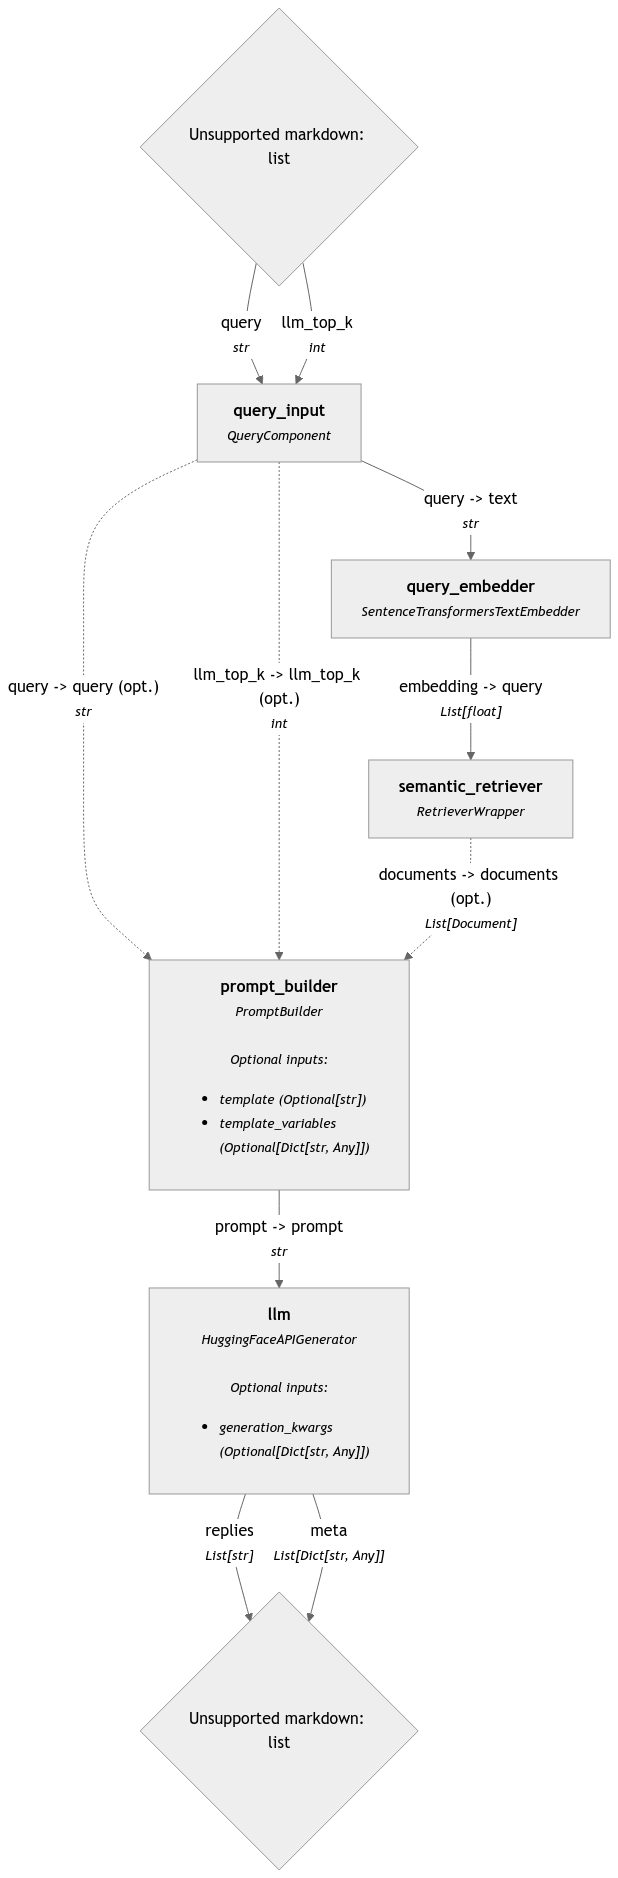
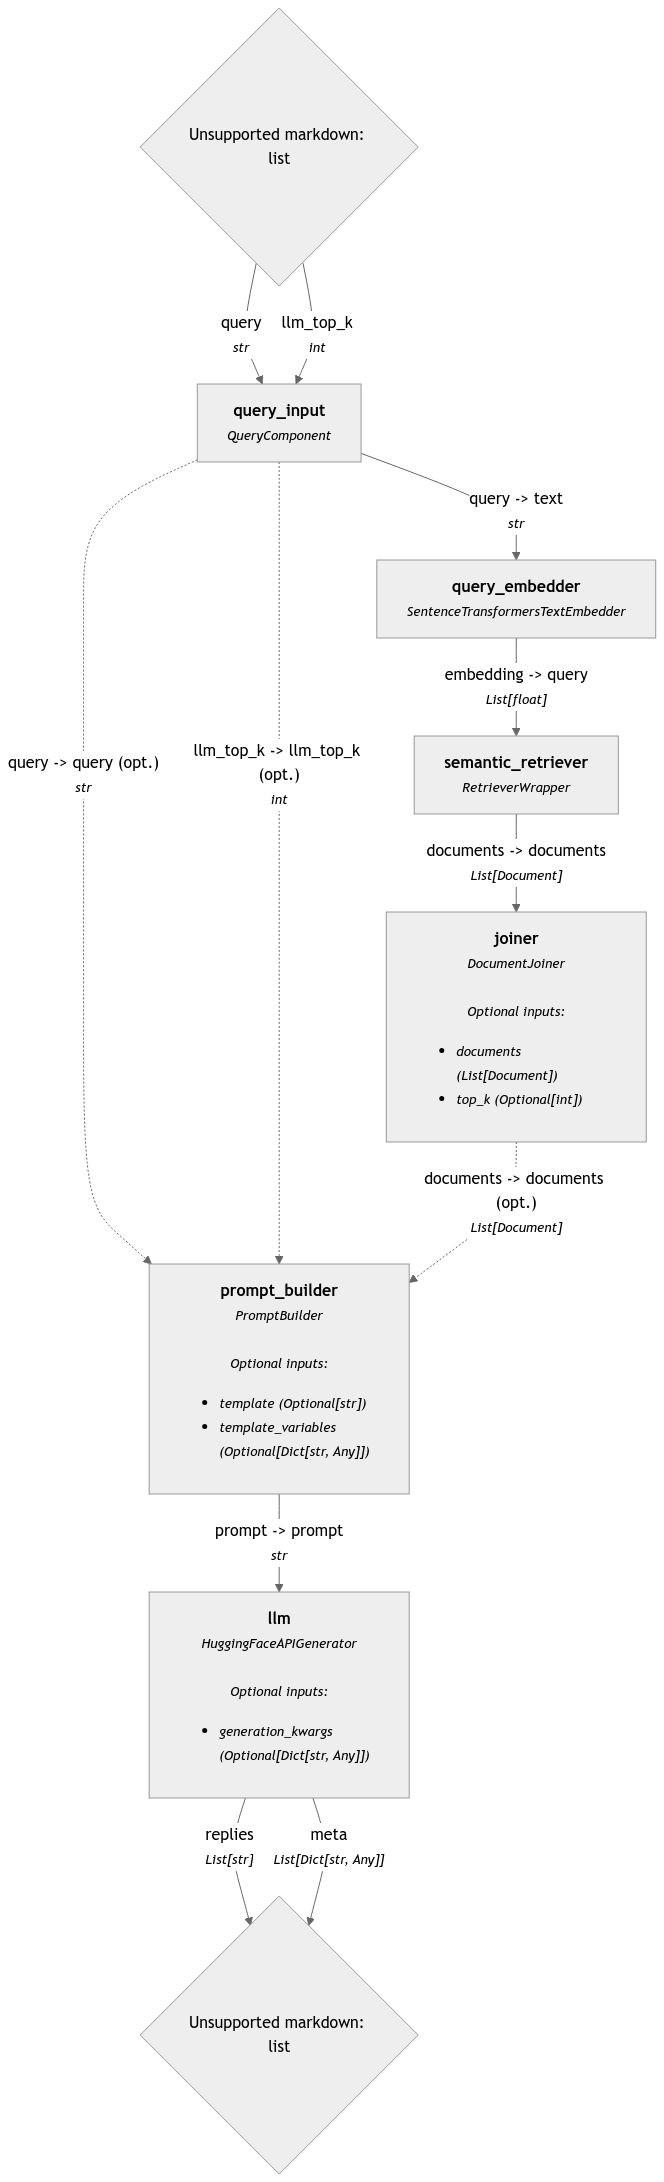
Added joiner and it broke the llm

diff --git a/rag_pipeline.py b/rag_pipeline.py
@@ -73,6 +73,11 @@ class RetrieverWrapper:
         elif isinstance(query, str):
             documents = self._retriever.run(query=query)['documents']
         if self._do_stream:
+            print()
+            if isinstance(self._retriever, PgvectorEmbeddingRetriever):
+                print("Semantic Retriever Results:")
+            elif isinstance(self._retriever, PgvectorKeywordRetriever):
+                print("Lexical Retriever Results:")
             print_documents(documents)
         # Return a dictionary with documents
         return {"documents": documents}
@@ -235,15 +240,14 @@ class RagPipeline:
             "give a comprehensive answer to the question. Pay more attention to the higher scoring "
             "documents.\n\n"
             "Context:\n"
-            "{% for i in range(llm_top_k) %}"
+            "{% for i in range([documents|count, llm_top_k] | min) %}"
                 "Rank {{ i + 1 }},  Score: {{ '%.2f' | format(documents[i].score) }}\n"
-                    "{% if documents[i] is defined %}"
-                        "{{ documents[i].content }}\n"
-                    "{% endif %}\n"
-                "{% endfor %};\n\n"
+                "{{ documents[i].content }}\n\n"
+            "{% endfor %}\n\n"
             "Question: {{query}}<end_of_turn>\n\n"
             "<start_of_turn>model\n"
         )
+
         self._print_verbose("Prompt Template:")
         self._print_verbose(self._prompt_template)
 
@@ -393,14 +397,14 @@ class RagPipeline:
             self._print_verbose("Retrieved Documents:")
             print_documents(merged_results["documents"])
 
-            # Print generated response
-            # noinspection SpellCheckingInspection
-            print("\nLLM's Response:")
-            if merged_results["replies"]:
-                answer: str = merged_results["replies"][0]
-                print(answer)
-            else:
-                print("No response was generated.")
+            # # Print generated response
+            # # noinspection SpellCheckingInspection
+            # print("\nLLM's Response:")
+            # if merged_results["replies"]:
+            #     answer: str = merged_results["replies"][0]
+            #     print(answer)
+            # else:
+            #     print("No response was generated.")
 
     def _create_rag_pipeline(self) -> None:
         rag_pipeline: Pipeline = Pipeline()
@@ -413,12 +417,19 @@ class RagPipeline:
         if self._search_mode == SearchMode.SEMANTIC or self._search_mode == SearchMode.HYBRID:
             rag_pipeline.add_component("query_embedder", self._sentence_embedder)
             rag_pipeline.connect("query_input.query", "query_embedder.text")
-        # Add the prompt builder component
+
+        # # Add the prompt builder component
         prompt_builder: PromptBuilder = PromptBuilder(template=self._prompt_template)
         rag_pipeline.add_component("prompt_builder", prompt_builder)
-        # Connect the query input to the prompt builder
+        # # Connect the query input to the prompt builder
         rag_pipeline.connect("query_input.query", "prompt_builder.query")
         rag_pipeline.connect("query_input.llm_top_k", "prompt_builder.llm_top_k")
+
+        # Add the joiner component
+        # Create a joiner to merge the results from both retrievers
+        joiner: DocumentJoiner = DocumentJoiner(join_mode="distribution_based_rank_fusion",
+                                                top_k=self._retriever_top_k*2)
+        rag_pipeline.add_component("joiner", joiner)
 
         # Add the retriever component(s) depending on search mode
         lex_retriever: Optional[RetrieverWrapper] = None
@@ -429,9 +440,9 @@ class RagPipeline:
                 PgvectorKeywordRetriever(document_store=self._document_store, top_k=self._retriever_top_k),
                 do_stream=self._can_stream())
             rag_pipeline.add_component("lex_retriever", lex_retriever)
-            # rag_pipeline.connect("lex_retriever", "joiner")
+            rag_pipeline.connect("lex_retriever", "joiner")
             rag_pipeline.connect("query_input.query", "lex_retriever")
-            rag_pipeline.connect("lex_retriever.documents", "prompt_builder.documents")
+            rag_pipeline.connect("lex_retriever.documents", "joiner.documents")
 
         if self._search_mode == SearchMode.SEMANTIC or self._search_mode == SearchMode.HYBRID:
             semantic_retriever = RetrieverWrapper(
@@ -439,22 +450,16 @@ class RagPipeline:
                 do_stream=self._can_stream())
             rag_pipeline.add_component("semantic_retriever", semantic_retriever)
             rag_pipeline.connect("query_embedder.embedding", "semantic_retriever.query")
-            # rag_pipeline.connect("semantic_retriever", "joiner")
-            rag_pipeline.connect("semantic_retriever.documents", "prompt_builder.documents")
+            rag_pipeline.connect("semantic_retriever.documents", "joiner.documents")
 
-        if self._search_mode == SearchMode.HYBRID:
-            pass
+        # Always connect the joiner to the prompt builder
+        rag_pipeline.connect("joiner.documents", "prompt_builder.documents")
 
         # Add the LLM component
         if isinstance(self._generator_model, gen.GeneratorModel):
             rag_pipeline.add_component("llm", self._generator_model.generator_component)
         else:
             rag_pipeline.add_component("llm", self._generator_model)
-
-        # Add the joiner component
-        # Create a joiner to merge the results from both retrievers
-        joiner: DocumentJoiner = DocumentJoiner(join_mode="merge", top_k=self._retriever_top_k)
-        # rag_pipeline.add_component("joiner", joiner)
 
         if not self._can_stream():
             # Add the final merger of documents and llm response only when streaming is disabled
@@ -465,8 +470,7 @@ class RagPipeline:
                 rag_pipeline.connect("semantic_retriever.documents", "merger.documents")
             rag_pipeline.connect("llm.replies", "merger.replies")
 
-        # Connect the components for both streaming and non-streaming scenarios
-        # rag_pipeline.connect("joiner.documents", "prompt_builder.documents")
+        # Connect prompt builder to the llm
         rag_pipeline.connect("prompt_builder", "llm")
 
         # Set the pipeline instance
@@ -504,7 +508,7 @@ def main() -> None:
         print("Sentence Embedder Dims: " + str(rag_processor.sentence_embed_dims))
         print("Sentence Embedder Context Length: " + str(rag_processor.sentence_context_length))
 
-    query: str = "What is induction?"
+    query: str = "What is Induction? Is induction refuted? Does it exist?"
     rag_processor.generate_response(query)
 
 
